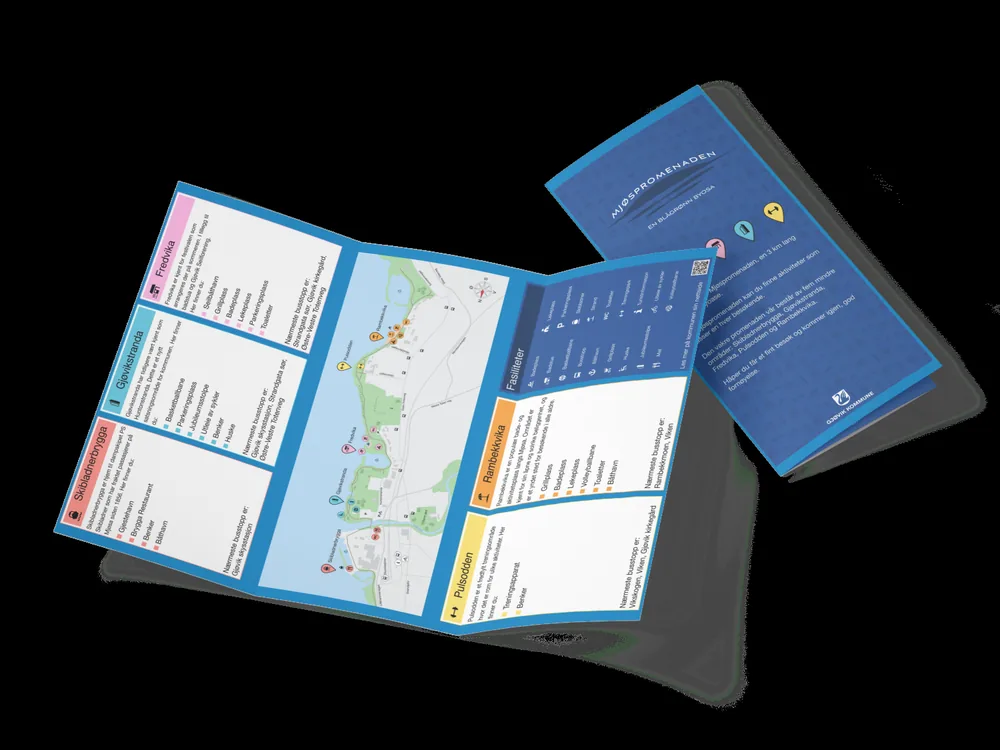
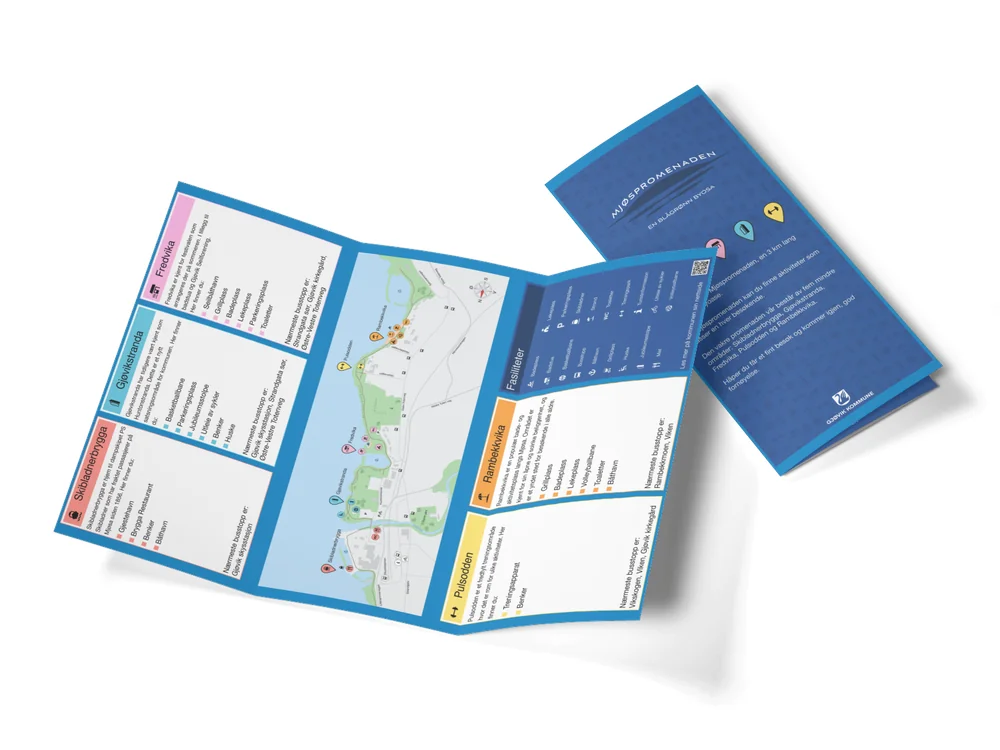
Fjern svart bakgrunn fra prototypebilder og gjør proto-visual-boksen større
Rekomponerer skiltstolpe-, googlemaps- og brosjyre-bildene mot hvit
bakgrunn (var eksportert uten alfakanal, som flatet transparens til
svart) og optimaliserer filstørrelsen. Strammer inn paddingen på
prototype-kortet og gir bildeboksen likt breddeforhold som tekstspalten
slik at bildet blir større og fyller boksen bedre.

diff --git a/mjospromenaden.css b/mjospromenaden.css
@@ -38,11 +38,11 @@ nav {
   padding: 1.2rem var(--side);
   background: rgba(247,245,241,0.9);
   backdrop-filter: blur(10px);
+  border-bottom: 1px solid var(--sand);
 }
 .nav-links {
   display: flex;
-  justify-content: space-between;
-  width: 100%;
+  gap: 2.5rem;
   list-style: none;
 }
 .nav-links a {
@@ -607,17 +607,16 @@ section {
   background: rgba(255,255,255,0.04);
   border: 1px solid rgba(255,255,255,0.1);
   border-radius: 18px;
-  padding: 2.5rem;
+  padding: 1.5rem;
   display: grid;
-  grid-template-columns: 1fr 1.4fr;
-  gap: 2.5rem;
+  grid-template-columns: 1fr 1fr;
+  gap: 1.75rem;
   align-items: center;
-  min-height: 280px;
 }
 
 .proto-visual {
   aspect-ratio: 1;
-  border-radius: 14px;
+  border-radius: 16px;
   background: var(--white);
   display: flex;
   align-items: center;
@@ -741,7 +740,7 @@ section {
 /* ── RESPONSIVE ── */
 @media (max-width: 900px) {
   .proto-display { grid-template-columns: 1fr; }
-  .proto-visual { max-width: 220px; margin: 0 auto; }
+  .proto-visual { max-width: 320px; margin: 0 auto; }
 }
 
 @media (max-width: 640px) {
